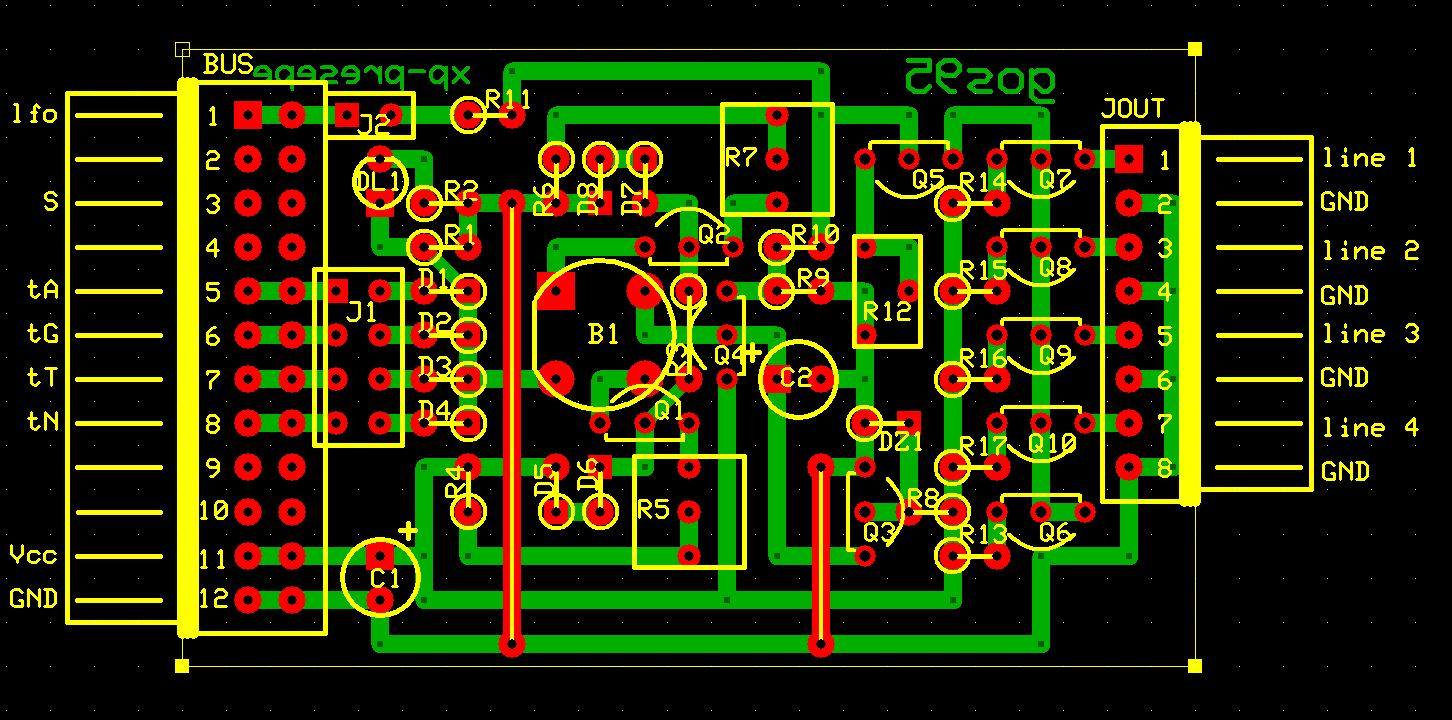
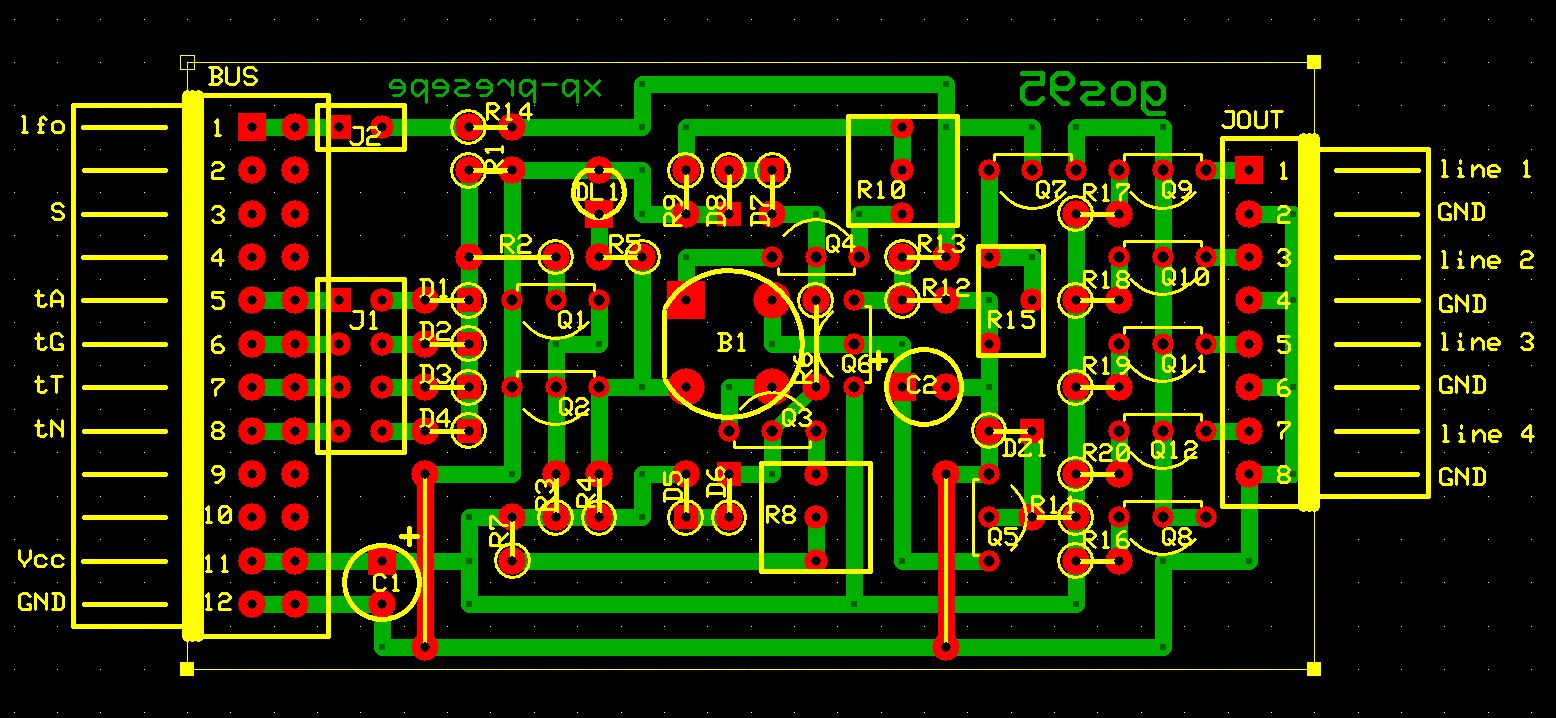
fix phases-lines-board

diff --git a/phases-lines-board/README.md b/phases-lines-board/README.md
@@ -16,16 +16,16 @@ Quad current driven output lines, featuring:
 
 
 ## Bill of Materials
-- [x] paperboard 5x7cm adapted to 23x14M (1M=.1inches)
+- [x] paperboard 5x7cm cropped to 26x14M (1M=.1inches)
 - [x] 1 x bulk capacitor 10uF 35V
 - [x] trigger activity led green 3mm
-- [x] led current limiter resistor 2K2ohm
+- [x] led current limiter resistor 4K7ohm
 - [x] DIL 12-pin right-angle header
 - [x] SIL 8-pin right-angle header
 - [x] trigger selector DIL 8-pin header with jumpers
-- [x] 13 x resistors 1/4 watt (4 x 10Kohm, 4 x 1Kohm, 5 x 33ohm)
+- [x] 16 x resistors 1/4 watt (1 x 22Kohm, 6 x 10Kohm, 4 x 1Kohm, 5 x 33ohm)
 - [x] 3 x resistive Trimmer (2 x 10Kohm, 1 x 200ohm)
 - [x] 1 x capacitor 470uF 16V
 - [x] 1 x diode bridge for very small voltage and current
 - [x] 9 x diode for small signal
-- [x] 9 x transistors for small signal (BC546/556 or equivalent)
+- [x] 12 x transistors for small signal (BC546/556 or equivalent)
